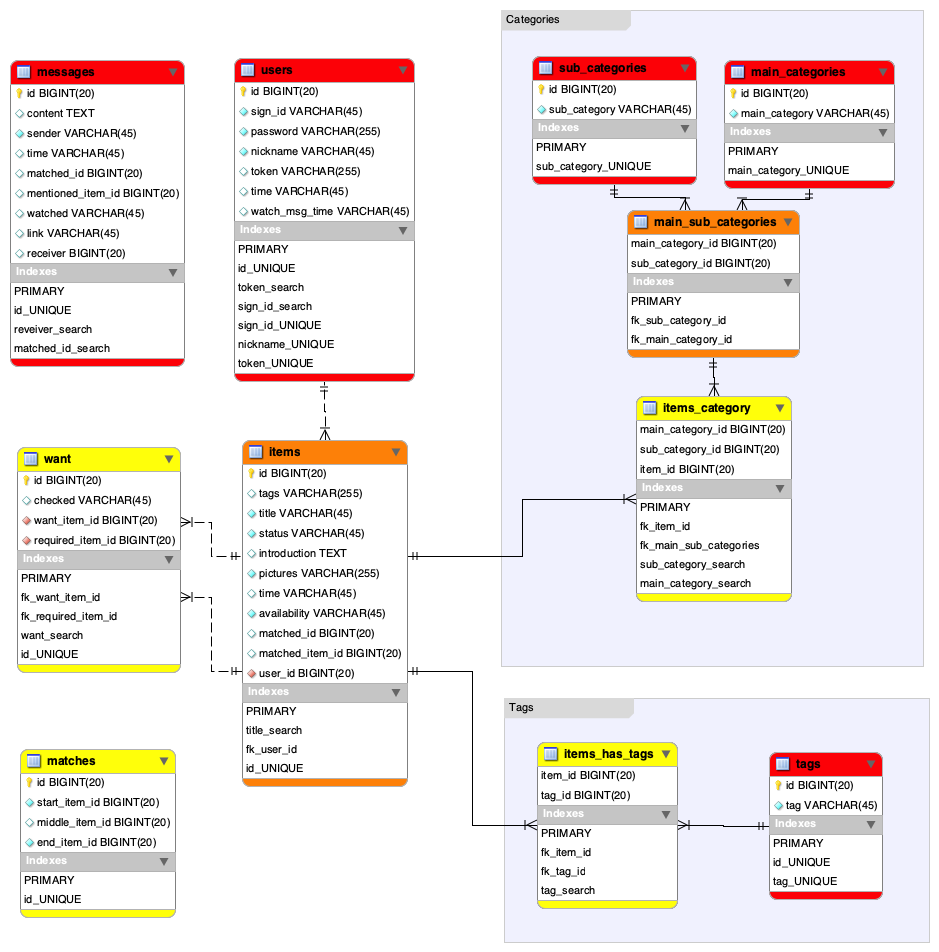
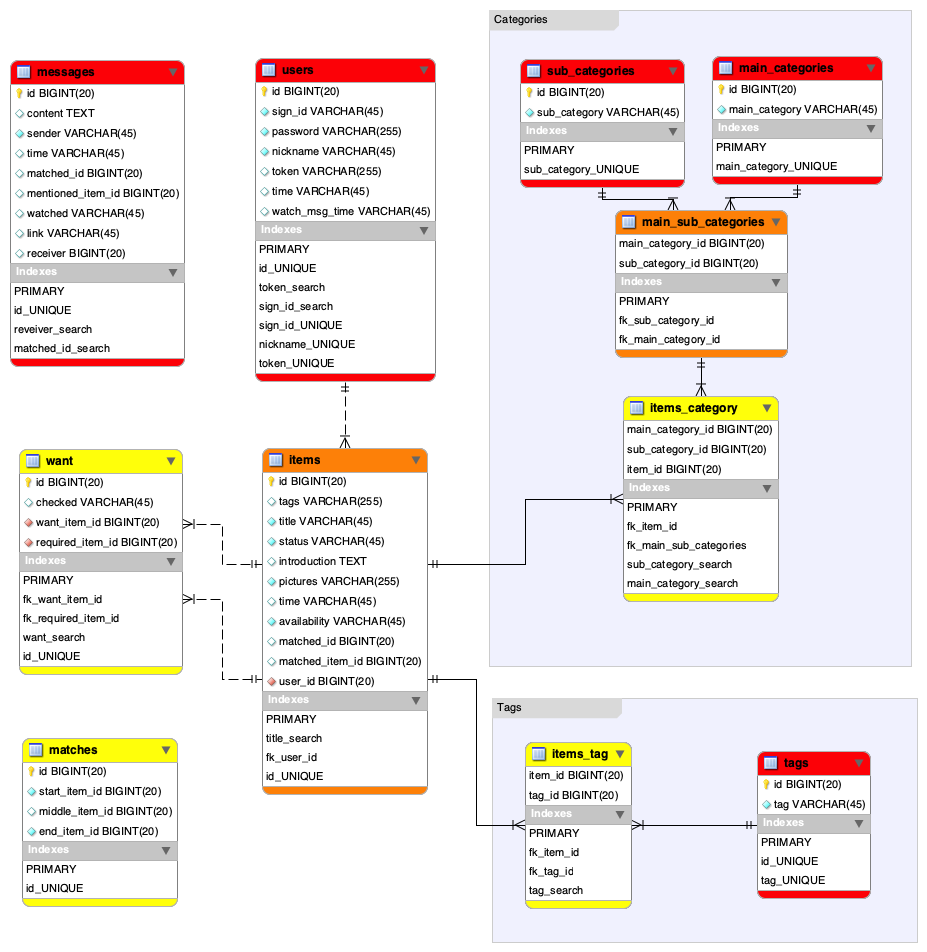
change tag schema and search func

diff --git a/test/fake_data_generator.js b/test/fake_data_generator.js
@@ -1,6 +1,6 @@
 require('dotenv').config();
 const { NODE_ENV } = process.env;
-const { tags, items_tags, main_sub_categories, users, want, items, main_categories, sub_categories, messages, matches, items_category } = require('./fake_data');
+const { tags, item_tags, main_sub_categories, users, want, items, main_categories, sub_categories, messages, matches, item_category } = require('./fake_data');
 const { pool } = require('../util/mysql');
 
 /**
@@ -38,7 +38,7 @@ async function truncateFakeData() {
   };
 
   return setForeignKey(0)
-    .then(() => { return truncateTable('items_category'); })
+    .then(() => { return truncateTable('item_category'); })
     .then(() => { return truncateTable('want'); })
     .then(() => { return truncateTable('matches'); })
     .then(() => { return truncateTable('main_sub_categories'); })
@@ -47,6 +47,8 @@ async function truncateFakeData() {
     .then(() => { return truncateTable('main_categories'); })
     .then(() => { return truncateTable('sub_categories'); })
     .then(() => { return truncateTable('users'); })
+    .then(() => { return truncateTable('tags'); })
+    .then(() => { return truncateTable('item_tags'); })
     .then(() => { return setForeignKey(1); })
     .catch(err => console.log(err));
 }
@@ -68,16 +70,16 @@ async function _createFakeData() {
     .then(() => { return _createFakeItems(); })
     .then(() => { return _createFakeMatches(); })
     .then(() => { return _createFakeWant(); })
-    .then(() => { return _createFakeItemsTags(); })
+    .then(() => { return _createFakeItemsTag(); })
     .then(() => { return _createFakeItemCategories(); })
     .then(() => { return _createFakeMainSubCategories(); })
     .catch(err => console.log(err));
 
 
 
-  function _createFakeItemsTags() {
+  function _createFakeItemsTag() {
     return new Promise((resolve, reject) => {
-      pool.query('INSERT INTO items_tags(item_id, tag_id) values ?', [items_tags.map(obj => Object.values(obj))], (err) => {
+      pool.query('INSERT INTO item_tags(item_id, tag_id) values ?', [item_tags.map(obj => Object.values(obj))], (err) => {
         if (err) {
           reject(err);
         } else {
@@ -113,7 +115,7 @@ async function _createFakeData() {
 
   function _createFakeItemCategories() {
     return new Promise((resolve, reject) => {
-      pool.query('INSERT INTO items_category(main_category_id, sub_category_id, item_id) values ?', [items_category.map(obj => Object.values(obj))], (err) => {
+      pool.query('INSERT INTO item_category(main_category_id, sub_category_id, item_id) values ?', [item_category.map(obj => Object.values(obj))], (err) => {
         if (err) {
           reject(err);
         } else {

diff --git a/routes/itemAPI.js b/routes/itemAPI.js
@@ -57,19 +57,35 @@ router.post('/new', async (req, res) => {
       time: Date.now().toString(),
     });
 
-    const insertCount = await insertItemCategory({
+    const insertCategoryCount = await insertItemCategory({
       main_category_id: req.body.main_category,
       sub_category_id: req.body.sub_category,
       item_id: insertItemResult.insertId,
     });
 
-    if (insertCount === 1) {
+    const tagsArr = req.body.tags.replace(/#/g, '').split(' ');
+    await insertItemTags(insertItemResult.insertId, tagsArr)
+      .catch(err=>{console.log(err);});
+
+    if (insertCategoryCount === 1) {
       res.status(200).render('item_result', { successMsg: '新增物品成功!' });
     } else {
       res.status(500).render('item_result', { errorMsg: '抱歉，新增物品失敗><若持續發生請聯繫我們' });
     }
     
   });
+
+  async function insertItemTags(itemId, tagsArr) {
+    const { insertNewTags, getTagIds, insertItemTags } = require('../dao/tagDAO');
+    await insertNewTags(tagsArr);
+    const tagIdArr = await getTagIds(tagsArr);
+    const insertedTagsOfItemCount = await insertItemTags(itemId, tagIdArr);
+    if (tagIdArr.length !== insertedTagsOfItemCount) {
+      console.log('Counts of item tags insertion was wrong :');
+      console.log(`Counts of tags: ${tagIdArr.length}, counts of insertion ${insertedTagsOfItemCount}`);
+    }
+  }
+
 });
 // get recommmand items
 router.get('/all', async (req, res) => {

diff --git a/dao/tagDAO.js b/dao/tagDAO.js
@@ -1,0 +1,48 @@
+const { pool } = require('../util/mysql');
+
+function insertNewTags(tagsArr) {
+  // Insert all tags with ignore 
+  return new Promise((resolve, reject) => {
+    const string =
+      'INSERT IGNORE INTO tags(tag) VALUES ?';
+    const condition = [tagsArr.map(e=>[e])];
+    pool.query(string, condition, (err, result) => {
+      if (err) { reject(err); }
+      else { resolve(result); }
+    });
+  });
+}
+
+// Select tags id from db
+function getTagIds(tagsArr) {
+  return new Promise((resolve,reject)=>{
+    const string = 
+    'SELECT id FROM tags WHERE tag in ?';
+    const condition = [[tagsArr]];
+    pool.query(string, condition, (err, result) => {
+      if (err) { reject(err); }
+      else {
+        const response = result.map(obj=>obj.id);
+        resolve(response); 
+      }
+    });
+  });
+}
+
+// insert items_tag with itemId and tagId
+function insertItemTags(itemId, tagIdArr) {
+  return new Promise((resolve,reject)=>{
+    const string = 
+    'INSERT INTO item_tags(item_id, tag_id) VALUES ?';
+    const condition = [tagIdArr.map((id)=>{return [itemId,id];})];
+    pool.query(string, condition, (err, result) => {
+      if (err) { reject(err); }
+      else { resolve(result.affectedRows); }
+    });
+  });
+}
+module.exports = {
+  insertNewTags,
+  getTagIds,
+  insertItemTags,
+};

diff --git a/dao/item.js b/dao/item.js
@@ -128,9 +128,10 @@ async function getItemDataFromSearchBar(titleArr, hashtagArr) {
       for (let j = count; j < hashtagArr.length + count; j++) {
         queryString +=
           `SELECT i${j}.*
-        FROM items i${j}
-        WHERE i${j}.tags
-        LIKE ?
+        FROM item_tags it${j}
+        JOIN items i${j} ON i${j}.id = it${j}.item_id
+        JOIN tags t${j} ON t${j}.id = it${j}.tag_id
+        WHERE t${j}.tag = ?
         AND i${j}.availability = "true"
         UNION ALL `;
       }
@@ -139,7 +140,7 @@ async function getItemDataFromSearchBar(titleArr, hashtagArr) {
     queryString +=
       `SELECT i.* FROM items i WHERE i.id < 0 ) total 
       GROUP BY id ORDER BY counts DESC`;
-    let queryCondition = titleArr.concat(hashtagArr).map(word => `%${word}%`);
+    let queryCondition = titleArr.map(word => `%${word}%`).concat(hashtagArr);
     pool.query(queryString, queryCondition, (err, result) => {
       if (err) { reject(err); return; }
       resolve(result);

diff --git a/app.js b/app.js
@@ -11,6 +11,7 @@ const itemAPI = require('./routes/itemAPI');
 const wantAPI = require('./routes/wantAPI');
 const msgAPI = require('./routes/msgAPI');
 const categoryAPI = require('./routes/categoryAPI');
+const tagAPI = require('./routes/tagAPI');
 const { getItemDetail } = require('./dao/item');
 app.set('views', path.join(__dirname, 'views'));
 app.set('view engine', 'pug');
@@ -30,8 +31,6 @@ app.get('/', async (req, res) => {
   const homePageData =  await getHomePageData(req)
     .catch(err=>{console.log(err); res.render('index', {}); });
   if (!homePageData) return;
-  console.log('homePageData');
-  console.log(homePageData);
   res.render('index', homePageData);
 });
 // sign up
@@ -57,6 +56,7 @@ app.use('/api/1.0/items', itemAPI);
 app.use('/api/1.0/want', wantAPI);
 app.use('/api/1.0/message', msgAPI);
 app.use('/api/1.0/category', categoryAPI);
+app.use('/api/1.0/tags', tagAPI);
 
 // catch 404 and forward to error handler
 app.use(function (req, res, next) {

diff --git a/dao/categoryDAO.js b/dao/categoryDAO.js
@@ -41,11 +41,11 @@ module.exports = {
 function insertItemCategory(data) {
   return new Promise((resolve,reject)=>{
     const string = 
-    'INSERT INTO items_category SET ?';
+    'INSERT INTO item_category SET ?';
     const condition = [data];
     pool.query(string, condition, (err, result) => {
-      if (err) { reject(err); return; }
-      resolve(result.affectedRows);
+      if (err) { reject(err); }
+      else {resolve(result.affectedRows);}
     });
   });
 }

diff --git a/test/fake_data.js b/test/fake_data.js
@@ -453,7 +453,7 @@ const matches = [
   }
 ];
 
-const items_category = [
+const item_category = [
   {
     main_category_id: 1,
     sub_category: 1,
@@ -511,7 +511,7 @@ const tags = [
   }
 ];
 
-const items_tags = [
+const item_tags = [
   {
     item_id:1,
     tag_id:1,
@@ -534,8 +534,8 @@ module.exports = {
   sub_categories,
   messages,
   matches,
-  items_category,
+  item_category,
   main_sub_categories,
   tags,
-  items_tags,
+  item_tags,
 };

diff --git a/test/set_up.js b/test/set_up.js
@@ -20,10 +20,10 @@ async function checkFakeData() {
   await checkTable('sub_categories');
   await checkTable('messages');
   await checkTable('matches');
-  await checkTable('items_category');
+  await checkTable('item_category');
   await checkTable('main_sub_categories');
   await checkTable('tags');
-  await checkTable('items_tags');
+  await checkTable('item_tags');
   return;
 }
 

diff --git a/util/mysql.js b/util/mysql.js
@@ -22,7 +22,7 @@ const itemJoinString =
   mc.main_category main_category_text,
   sc.sub_category sub_category_text
   FROM items i 
-  JOIN items_category ic ON i.id = ic.item_id
+  JOIN item_category ic ON i.id = ic.item_id
   JOIN main_categories mc ON mc.id = ic.main_category_id
   JOIN sub_categories sc ON sc.id = ic.sub_category_id
   JOIN users u on u.id = i.user_id `;

diff --git a/routes/tagAPI.js b/routes/tagAPI.js
@@ -1,0 +1,8 @@
+const express = require('express');
+const router = express.Router();
+const tagDAO = require('../dao/tagDAO');
+
+router.get('/lastMsgWatchedTime', async (req,res)=>{
+})
+
+module.exports = router;

diff --git a/Readme.md b/Readme.md
@@ -35,7 +35,7 @@ Triangle Trade aims to provide a brand new social experience for aficionados aro
 * jQuery
 * CSS & HTML
 
-### Develop Tools
+### Development
 
 * Jest
 * Trello
@@ -83,8 +83,8 @@ Users will received notifications once an invitation, match or trade event relat
 ## Exchange Operations
 
 There are three scenarios of an exchange :
-> **Invitation** : If no matches were found for a new "want", system will send an exchange invitation to the owner of target item.
-> **Match** : Once system found an potential exchange among items, it will send match notification to all related matchers.
+> **Invitation** : If no matches were found for a new "want", system will send an exchange invitation to the owner of target item.  
+> **Match** : Once system found an potential exchange among items, it will send match notification to all related matchers.  
 > **Trade** : If all related matcher confirmed an exchange, system will generate a trade record and discontinue all items of the trade automatically.
 
 ### Send invitations
